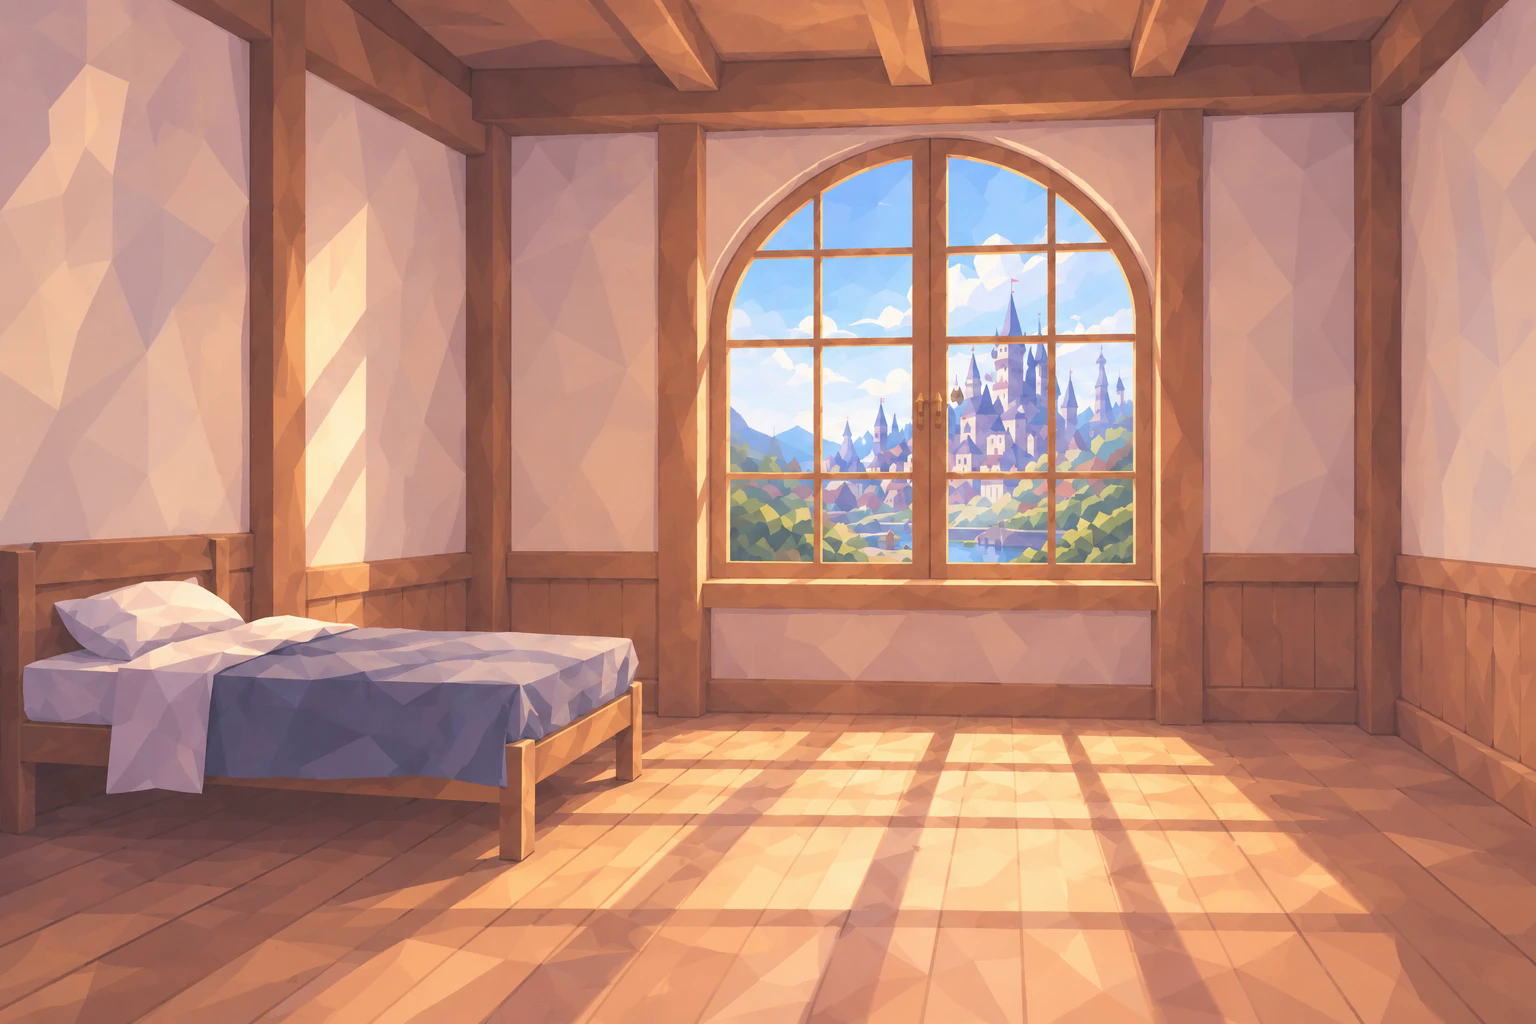
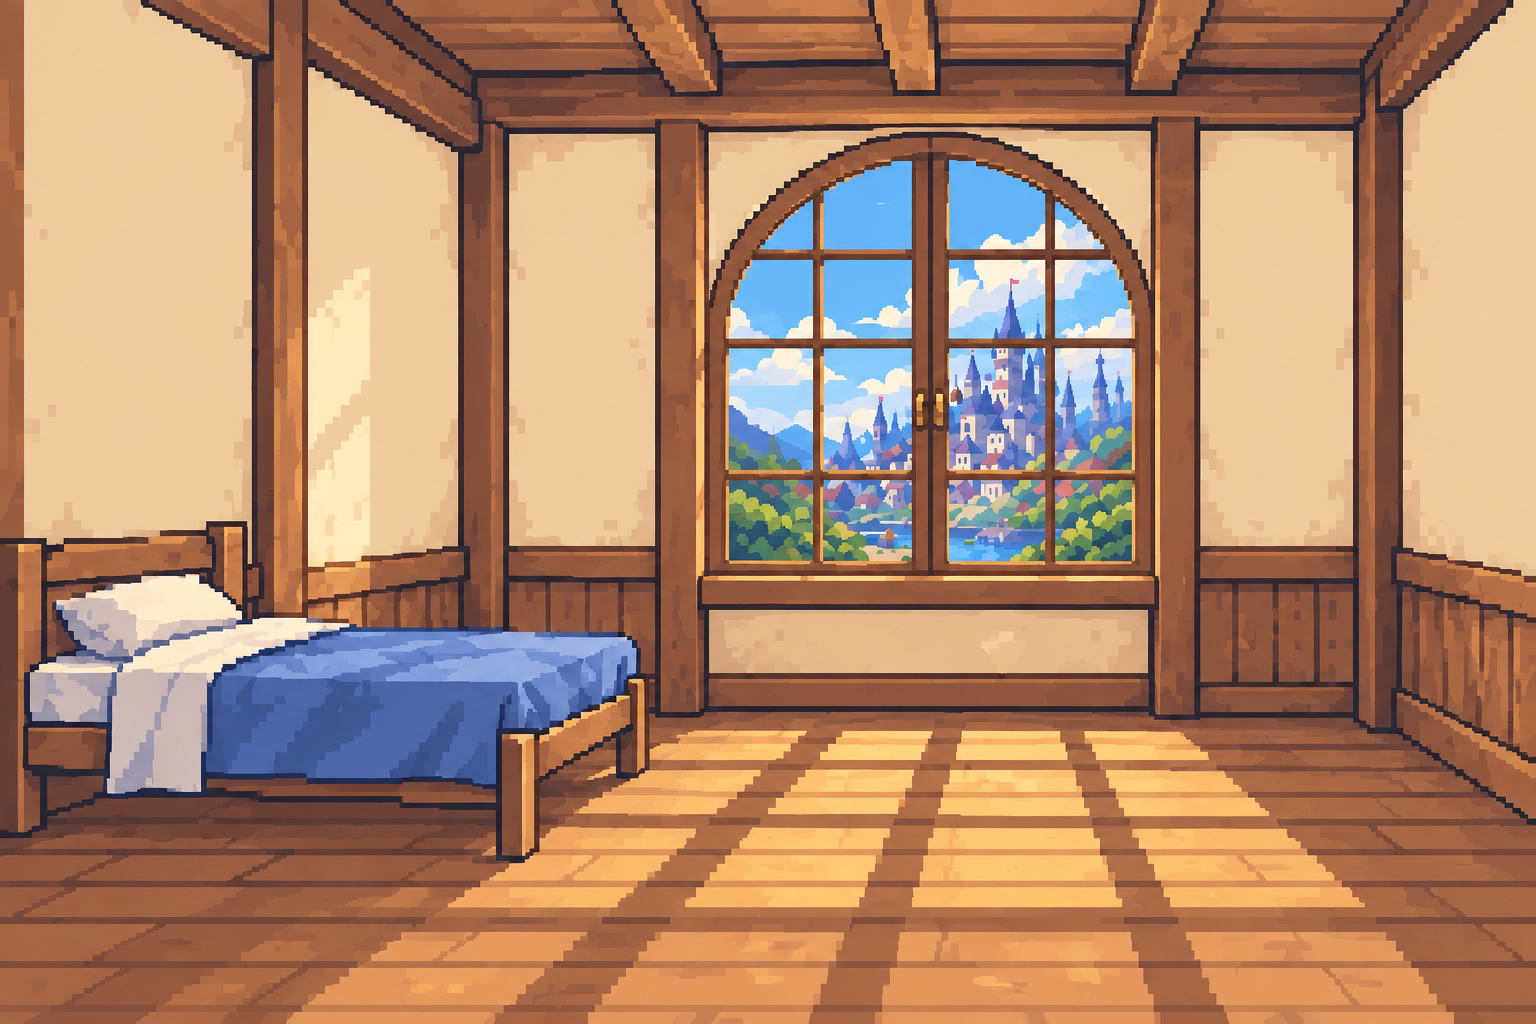
Redraw the room and its furniture as dot art
The girls became dot art yesterday and stood in a smooth low-poly room,
looking pasted onto it. Five drafts of the room were ordered with the old
room as the layout and a girl as the style, and the fifth was chosen: few
colours, thick outlines, flat faces. The other four came back with finer
dots than hers and she floated on them.

All nine pieces of furniture were then ordered against that room, one
each on a transparent ground. The bench, the vase and the pictures had no
drawing before and showed only as a line of text under the room.

Each drawing is cut to its own edges, so a place in room.ts is now the
piece itself and not a canvas with a piece somewhere in it. The places
were set again for the new room.

diff --git a/lib/room.ts b/lib/room.ts
@@ -63,19 +63,19 @@ export const STARTER: Furniture = {
   price: 0,
   icon: 'bed-outline',
   paintedIn: true,
-  place: { x: 0.0, y: 0.5, w: 0.44 },
+  place: { x: 0.0, y: 0.5, w: 0.42 },
 };
 
 export const FURNITURE: Furniture[] = [
-  { id: 'flowers', slot: 'plant', name: '들꽃 화병', detail: '방에 색이 하나 생겨요', price: 200, icon: 'flower-outline', place: { x: 0.86, y: 0.52, w: 0.14 } },
-  { id: 'curtain', slot: 'curtain', name: '분홍 커튼', detail: '아침볕이 부드러워져요', price: 300, icon: 'browsers-outline', place: { x: 0.33, y: 0.096, w: 0.518 } },
-  { id: 'rug', slot: 'rug', name: '꽃무늬 양탄자', detail: '맨발로 내려서도 괜찮아요', price: 350, icon: 'square-outline', place: { x: 0.37, y: 0.7, w: 0.58 } },
-  { id: 'bench', slot: 'seat', name: '창가 벤치', detail: '앉아서 밖을 볼 자리', price: 350, icon: 'tablet-landscape-outline', place: { x: 0.06, y: 0.68, w: 0.3 } },
-  { id: 'pictures', slot: 'picture', name: '액자 셋', detail: '벽이 허전하지 않게', price: 400, icon: 'image-outline', place: { x: 0.2, y: 0.1, w: 0.18 } },
-  { id: 'mirror', slot: 'dresser', name: '전신 거울', detail: '차림새를 보고 나설 수 있어요', price: 450, icon: 'browsers-outline', place: { x: 0.602, y: 0.495, w: 0.251 } },
-  { id: 'bed', slot: 'bed', name: '천개 달린 침대', detail: '이제 잘 자겠네요', price: 500, icon: 'bed-outline', place: { x: 0.0, y: 0.3, w: 0.48 } },
-  { id: 'shelf', slot: 'shelf', name: '책장', detail: '배운 것을 쌓아둘 곳', price: 550, icon: 'library-outline', place: { x: 0.732, y: 0.45, w: 0.253 } },
-  { id: 'chandelier', slot: 'light', name: '샹들리에', detail: '밤에도 방이 환해요', price: 700, icon: 'bulb-outline', place: { x: 0.42, y: 0.0, w: 0.2 } },
+  { id: 'flowers', slot: 'plant', name: '들꽃 화병', detail: '방에 색이 하나 생겨요', price: 200, icon: 'flower-outline', place: { x: 0.458, y: 0.583, w: 0.07 } },
+  { id: 'curtain', slot: 'curtain', name: '분홍 커튼', detail: '아침볕이 부드러워져요', price: 300, icon: 'browsers-outline', place: { x: 0.44, y: 0.085, w: 0.33 } },
+  { id: 'rug', slot: 'rug', name: '꽃무늬 양탄자', detail: '맨발로 내려서도 괜찮아요', price: 350, icon: 'square-outline', place: { x: 0.44, y: 0.745, w: 0.5 } },
+  { id: 'bench', slot: 'seat', name: '창가 벤치', detail: '앉아서 밖을 볼 자리', price: 350, icon: 'tablet-landscape-outline', place: { x: 0.53, y: 0.635, w: 0.21 } },
+  { id: 'pictures', slot: 'picture', name: '액자 셋', detail: '벽이 허전하지 않게', price: 400, icon: 'image-outline', place: { x: 0.79, y: 0.2, w: 0.085 } },
+  { id: 'mirror', slot: 'dresser', name: '전신 거울', detail: '차림새를 보고 나설 수 있어요', price: 450, icon: 'browsers-outline', place: { x: 0.885, y: 0.526, w: 0.085 } },
+  { id: 'bed', slot: 'bed', name: '천개 달린 침대', detail: '이제 잘 자겠네요', price: 500, icon: 'bed-outline', place: { x: 0.0, y: 0.294, w: 0.46 } },
+  { id: 'shelf', slot: 'shelf', name: '책장', detail: '배운 것을 쌓아둘 곳', price: 550, icon: 'library-outline', place: { x: 0.775, y: 0.462, w: 0.115 } },
+  { id: 'chandelier', slot: 'light', name: '샹들리에', detail: '밤에도 방이 환해요', price: 700, icon: 'bulb-outline', place: { x: 0.3, y: 0.0, w: 0.15 } },
 ];
 
 export const ROOM_TOTAL = FURNITURE.reduce((sum, f) => sum + f.price, 0);

diff --git a/lib/furnitureArt.ts b/lib/furnitureArt.ts
@@ -9,20 +9,22 @@
  * so a purchase visibly lands instead of vanishing into a database column,
  * and it stays obvious which art is still missing.
  *
- * The rug is drawn by scripts/make-rug.mjs rather than by hand: the first one
- * was seen from too high an angle to lie on this floor — 「나르는 양탄자야?」
- * — and the angle is only a number there. Its art is cropped tight, so its
- * place in lib/room.ts is the rug itself, not a canvas with a rug in it.
+ * Every piece is dot art ordered in the style of the room (docs/art-order.md)
+ * and trimmed to its own edges by scripts/room-assets.py, so its place in
+ * lib/room.ts is the piece itself, not a canvas with a piece somewhere in it.
  */
 type Art = { source: number; aspect: number };
 
 const ART: Record<string, Art> = {
-  rug: { source: require('../assets/room/rug.png'), aspect: 1600 / 547 },
-  bed: { source: require('../assets/room/bed.png'), aspect: 1371 / 1148 },
-  curtain: { source: require('../assets/room/curtain.png'), aspect: 1536 / 1024 },
-  shelf: { source: require('../assets/room/shelf.png'), aspect: 1024 / 1536 },
-  mirror: { source: require('../assets/room/mirror.png'), aspect: 1024 / 1536 },
-  chandelier: { source: require('../assets/room/chandelier.png'), aspect: 1536 / 1024 },
+  rug: { source: require('../assets/room/rug.png'), aspect: 768 / 242 },
+  bed: { source: require('../assets/room/bed.png'), aspect: 768 / 641 },
+  bench: { source: require('../assets/room/bench.png'), aspect: 768 / 274 },
+  mirror: { source: require('../assets/room/mirror.png'), aspect: 262 / 768 },
+  shelf: { source: require('../assets/room/shelf.png'), aspect: 504 / 768 },
+  flowers: { source: require('../assets/room/flowers.png'), aspect: 410 / 768 },
+  curtain: { source: require('../assets/room/curtain.png'), aspect: 671 / 768 },
+  pictures: { source: require('../assets/room/pictures.png'), aspect: 687 / 768 },
+  chandelier: { source: require('../assets/room/chandelier.png'), aspect: 736 / 768 },
 };
 
 export function artFor(furnitureId: string): Art | null {

diff --git a/scripts/room-assets.py b/scripts/room-assets.py
@@ -1,0 +1,69 @@
+"""Cuts an ordered piece of furniture to its own edges and puts it in assets/room/.
+
+    python -X utf8 scripts/room-assets.py art-orders/2026-10-04/furniture/bed/bed.png bed
+
+The drawing comes back on a large canvas with a soft, half-transparent rim. The rim is
+cut hard (a glow around a bookcase reads as light on a dark wall), stray specks are
+dropped, and the canvas is trimmed to the piece — so its place in lib/room.ts is the
+piece itself, not a canvas with a piece somewhere in it. Prints the aspect to put in
+lib/furnitureArt.ts.
+"""
+import sys
+from collections import deque
+from pathlib import Path
+
+import numpy as np
+from PIL import Image
+
+LONG_SIDE = 768  # plenty: the widest piece is under half of a phone-wide scene
+
+
+def without_specks(solid: np.ndarray) -> np.ndarray:
+    """Drops islands far smaller than the piece: leftovers of the generator's background."""
+    labels = np.zeros(solid.shape, dtype=np.int32)
+    sizes = [0]
+    height, width = solid.shape
+    for y, x in zip(*np.nonzero(solid)):
+        if labels[y, x]:
+            continue
+        label = len(sizes)
+        labels[y, x] = label
+        size, queue = 0, deque([(y, x)])
+        while queue:
+            cy, cx = queue.popleft()
+            size += 1
+            for ny, nx in ((cy - 1, cx), (cy + 1, cx), (cy, cx - 1), (cy, cx + 1)):
+                if 0 <= ny < height and 0 <= nx < width and solid[ny, nx] and not labels[ny, nx]:
+                    labels[ny, nx] = label
+                    queue.append((ny, nx))
+        sizes.append(size)
+    keep = [label for label, size in enumerate(sizes) if label and size >= max(sizes) * 0.002]
+    return np.isin(labels, keep)
+
+
+def main() -> None:
+    src, piece = Path(sys.argv[1]), sys.argv[2]
+    art = Image.open(src).convert('RGBA')
+    px = np.array(art)
+    solid = px[..., 3] >= 128
+
+    solid = without_specks(solid)
+
+    corners = [solid[0, 0], solid[0, -1], solid[-1, 0], solid[-1, -1]]
+    if all(corners):
+        sys.exit(f'{src}: the background is not transparent')
+
+    px[..., 3] = np.where(solid, 255, 0)
+    px[~solid, :3] = 0
+    ys, xs = np.nonzero(solid)
+    cut = Image.fromarray(px).crop((xs.min(), ys.min(), xs.max() + 1, ys.max() + 1))
+    scale = LONG_SIDE / max(cut.size)
+    if scale < 1:
+        cut = cut.resize((round(cut.width * scale), round(cut.height * scale)), Image.LANCZOS)
+    out = Path('assets/room') / f'{piece}.png'
+    cut.save(out, optimize=True)
+    print(f'{out}: {cut.width} x {cut.height}, aspect {cut.width} / {cut.height}')
+
+
+if __name__ == '__main__':
+    main()

diff --git a/docs/art-order.md b/docs/art-order.md
@@ -243,3 +243,23 @@ python -X utf8 scripts/garment-assets.py art-orders/2026-10-03/base-clean/base-c
   안이면 아래옷, 반바지 밑단에서 다섯 점 아래부터는 신발, 나머지가 윗옷이다. 소매는 허리보다
   아래로 내려오지만 엉덩이 너비 밖이라 윗옷에 남는다.
 - 시안 1번은 얼굴 · 머리(`faces/`)와 운동복(`outfits/`)을 따로 받아 합친 것이다. 고르지 않았다.
+
+## 방과 가구 (2026-10-04, `scripts/room-assets.py`)
+
+```bash
+bash art-orders/2026-10-04/room/order.sh         # 방 시안 다섯
+bash art-orders/2026-10-04/furniture/order.sh    # 가구 아홉 점
+python -X utf8 scripts/room-assets.py art-orders/2026-10-04/furniture/bed/bed.png bed
+```
+
+- **방은 옛 방과 아이, 두 장을 참고 그림으로 넣는다.** 옛 방은 「구도만 따르고 화풍은 따르지
+  않는다」, 아이는 「그리라는 것이 아니라 화풍과 픽셀 크기의 본보기」라고 적는다. 다섯 장 모두 창,
+  침대, 바닥 선이 옛 방과 같은 자리에 왔다.
+- **「색을 16개 안쪽으로, 굵은 외곽선, 평평하게 칠한 면」이 아이와 가장 잘 맞았다.** 분위기만 적은
+  넷은 점이 아이보다 잘게 왔다. 받은 방의 한 점은 5 → 6픽셀쯤이다(가로 280칸 남짓).
+- **가구는 고른 방 한 장만 참고 그림으로 넣고, 한 점씩 투명한 바탕에 받는다.** 「방을 다시 그리라는
+  것이 아니다, 화풍의 본보기다」와 가로 칸 수, 가로세로 비율을 적는다. 아홉 장 모두 네 귀퉁이가
+  투명하게 왔고 5분쯤 걸렸다(다섯 장, 넷 장씩 한꺼번에).
+- 커튼과 액자는 「열린 가운데는 완전히 투명하다」, 「액자 사이는 완전히 투명하다」를 적어야 한다.
+  샹들리에는 「사슬만은 위 가장자리에 닿아도 된다」고 적어 천장에 붙였다.
+- 받은 그림에는 반투명한 점이 수십만 개 있다. `room-assets.py`가 알파 128에서 딱 자른다.
